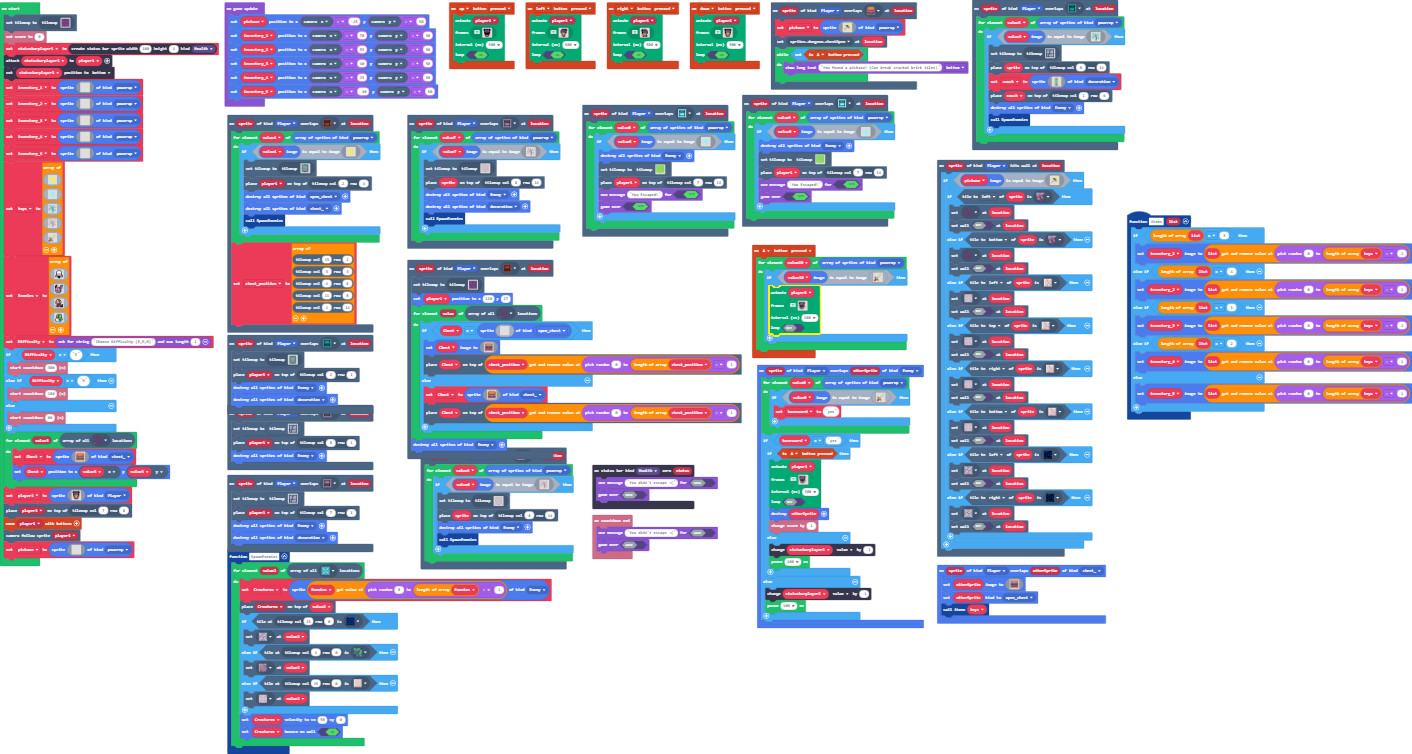
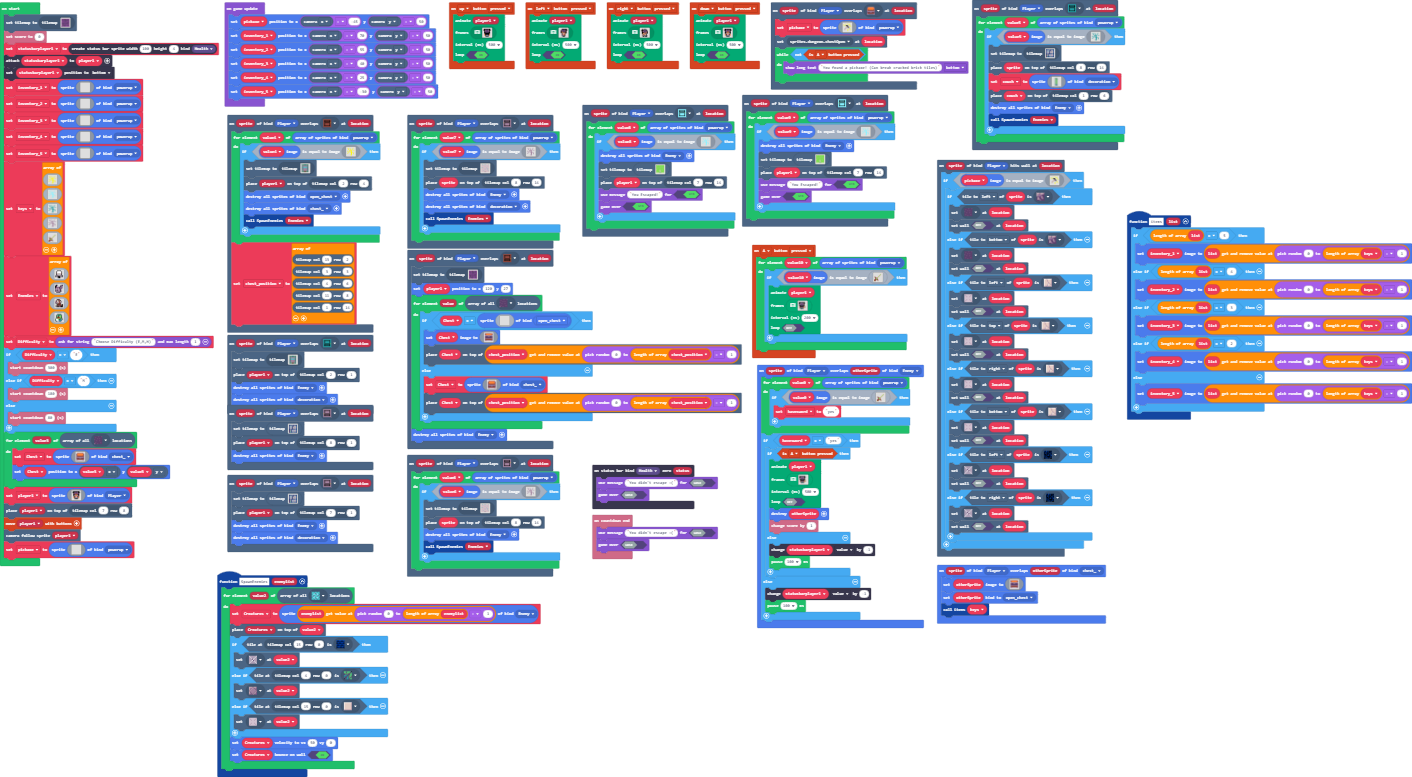
Added list parameters

diff --git a/main.ts b/main.ts
@@ -198,7 +198,7 @@ scene.onOverlapTile(SpriteKind.Player, assets.tile`myTile`, function (sprite, lo
             tiles.placeOnTile(player1, tiles.getTileLocation(2, 4))
             sprites.destroyAllSpritesOfKind(SpriteKind.open_chest)
             sprites.destroyAllSpritesOfKind(SpriteKind.chest_)
-            SpawnEnemies()
+            SpawnEnemies(Enemies)
         }
     }
     chest_position = [
@@ -209,9 +209,9 @@ scene.onOverlapTile(SpriteKind.Player, assets.tile`myTile`, function (sprite, lo
     tiles.getTileLocation(1, 14)
     ]
 })
-function SpawnEnemies () {
+function SpawnEnemies (enemylist: Image[]) {
     for (let value2 of tiles.getTilesByType(sprites.dungeon.collectibleInsignia)) {
-        Creatures = sprites.create(Enemies[randint(0, Enemies.length - 1)], SpriteKind.Enemy)
+        Creatures = sprites.create(enemylist[randint(0, enemylist.length - 1)], SpriteKind.Enemy)
         tiles.placeOnTile(Creatures, value2)
         if (tiles.tileAtLocationEquals(tiles.getTileLocation(15, 0), assets.tile`myTile4`)) {
             tiles.setTileAt(value2, assets.tile`myTile3`)
@@ -510,7 +510,7 @@ scene.onOverlapTile(SpriteKind.Player, assets.tile`myTile16`, function (sprite, 
             tiles.placeOnTile(sprite, tiles.getTileLocation(8, 14))
             sprites.destroyAllSpritesOfKind(SpriteKind.Enemy)
             sprites.destroyAllSpritesOfKind(SpriteKind.decoration)
-            SpawnEnemies()
+            SpawnEnemies(Enemies)
         }
     }
 })
@@ -624,7 +624,7 @@ scene.onOverlapTile(SpriteKind.Player, assets.tile`myTile8`, function (sprite, l
             tiles.setCurrentTilemap(tilemap`level24`)
             tiles.placeOnTile(sprite, tiles.getTileLocation(8, 14))
             sprites.destroyAllSpritesOfKind(SpriteKind.Enemy)
-            SpawnEnemies()
+            SpawnEnemies(Enemies)
         }
     }
 })
@@ -761,7 +761,7 @@ scene.onOverlapTile(SpriteKind.Player, assets.tile`myTile2`, function (sprite, l
                 `, SpriteKind.decoration)
             tiles.placeOnTile(couch, tiles.getTileLocation(1, 6))
             sprites.destroyAllSpritesOfKind(SpriteKind.Enemy)
-            SpawnEnemies()
+            SpawnEnemies(Enemies)
         }
     }
 })
